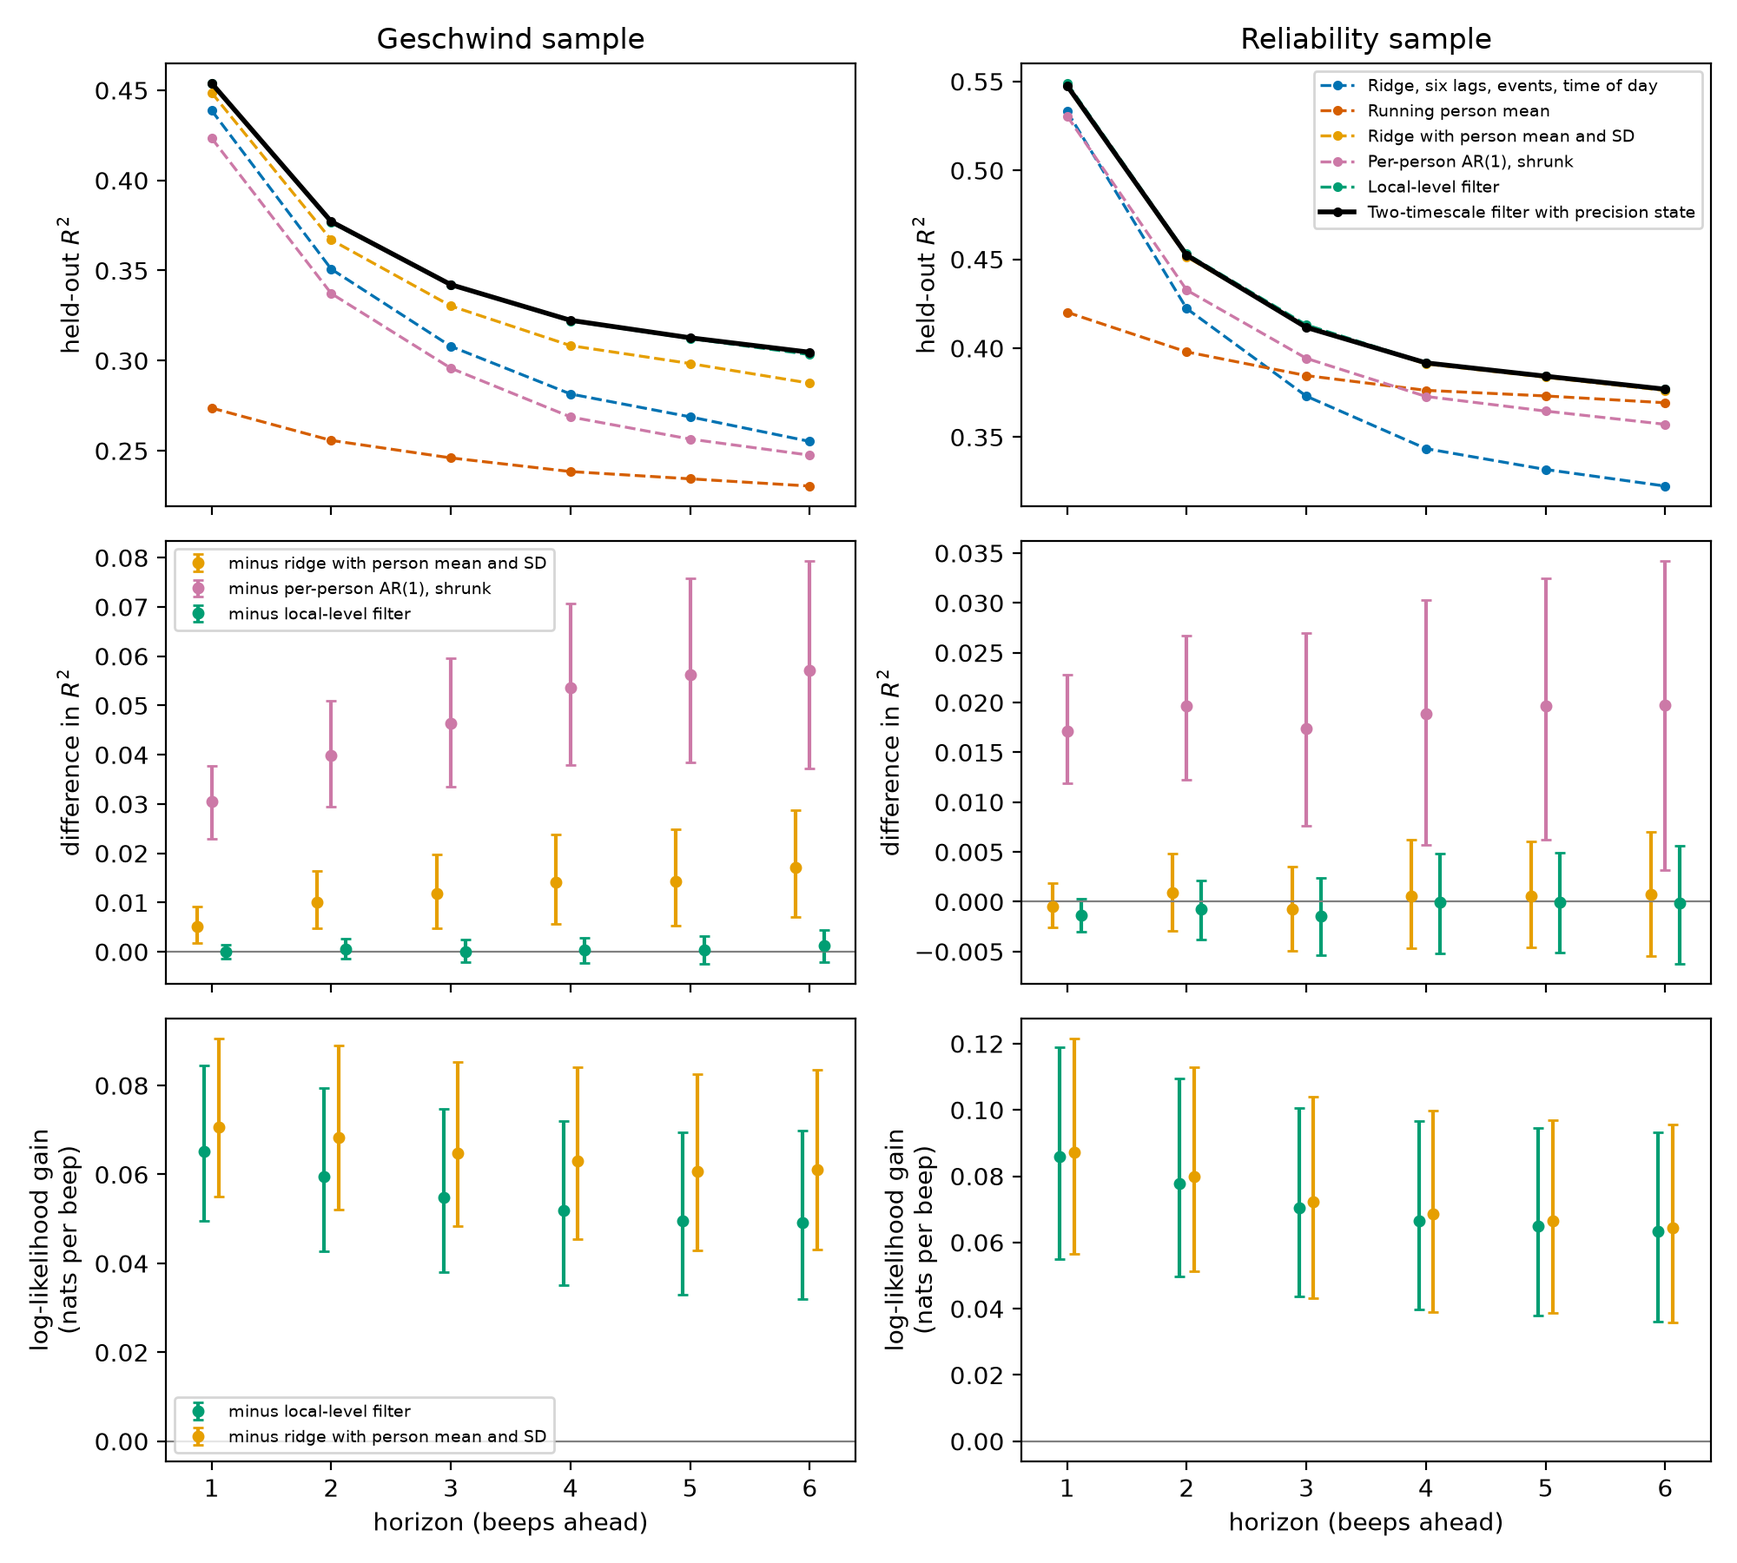
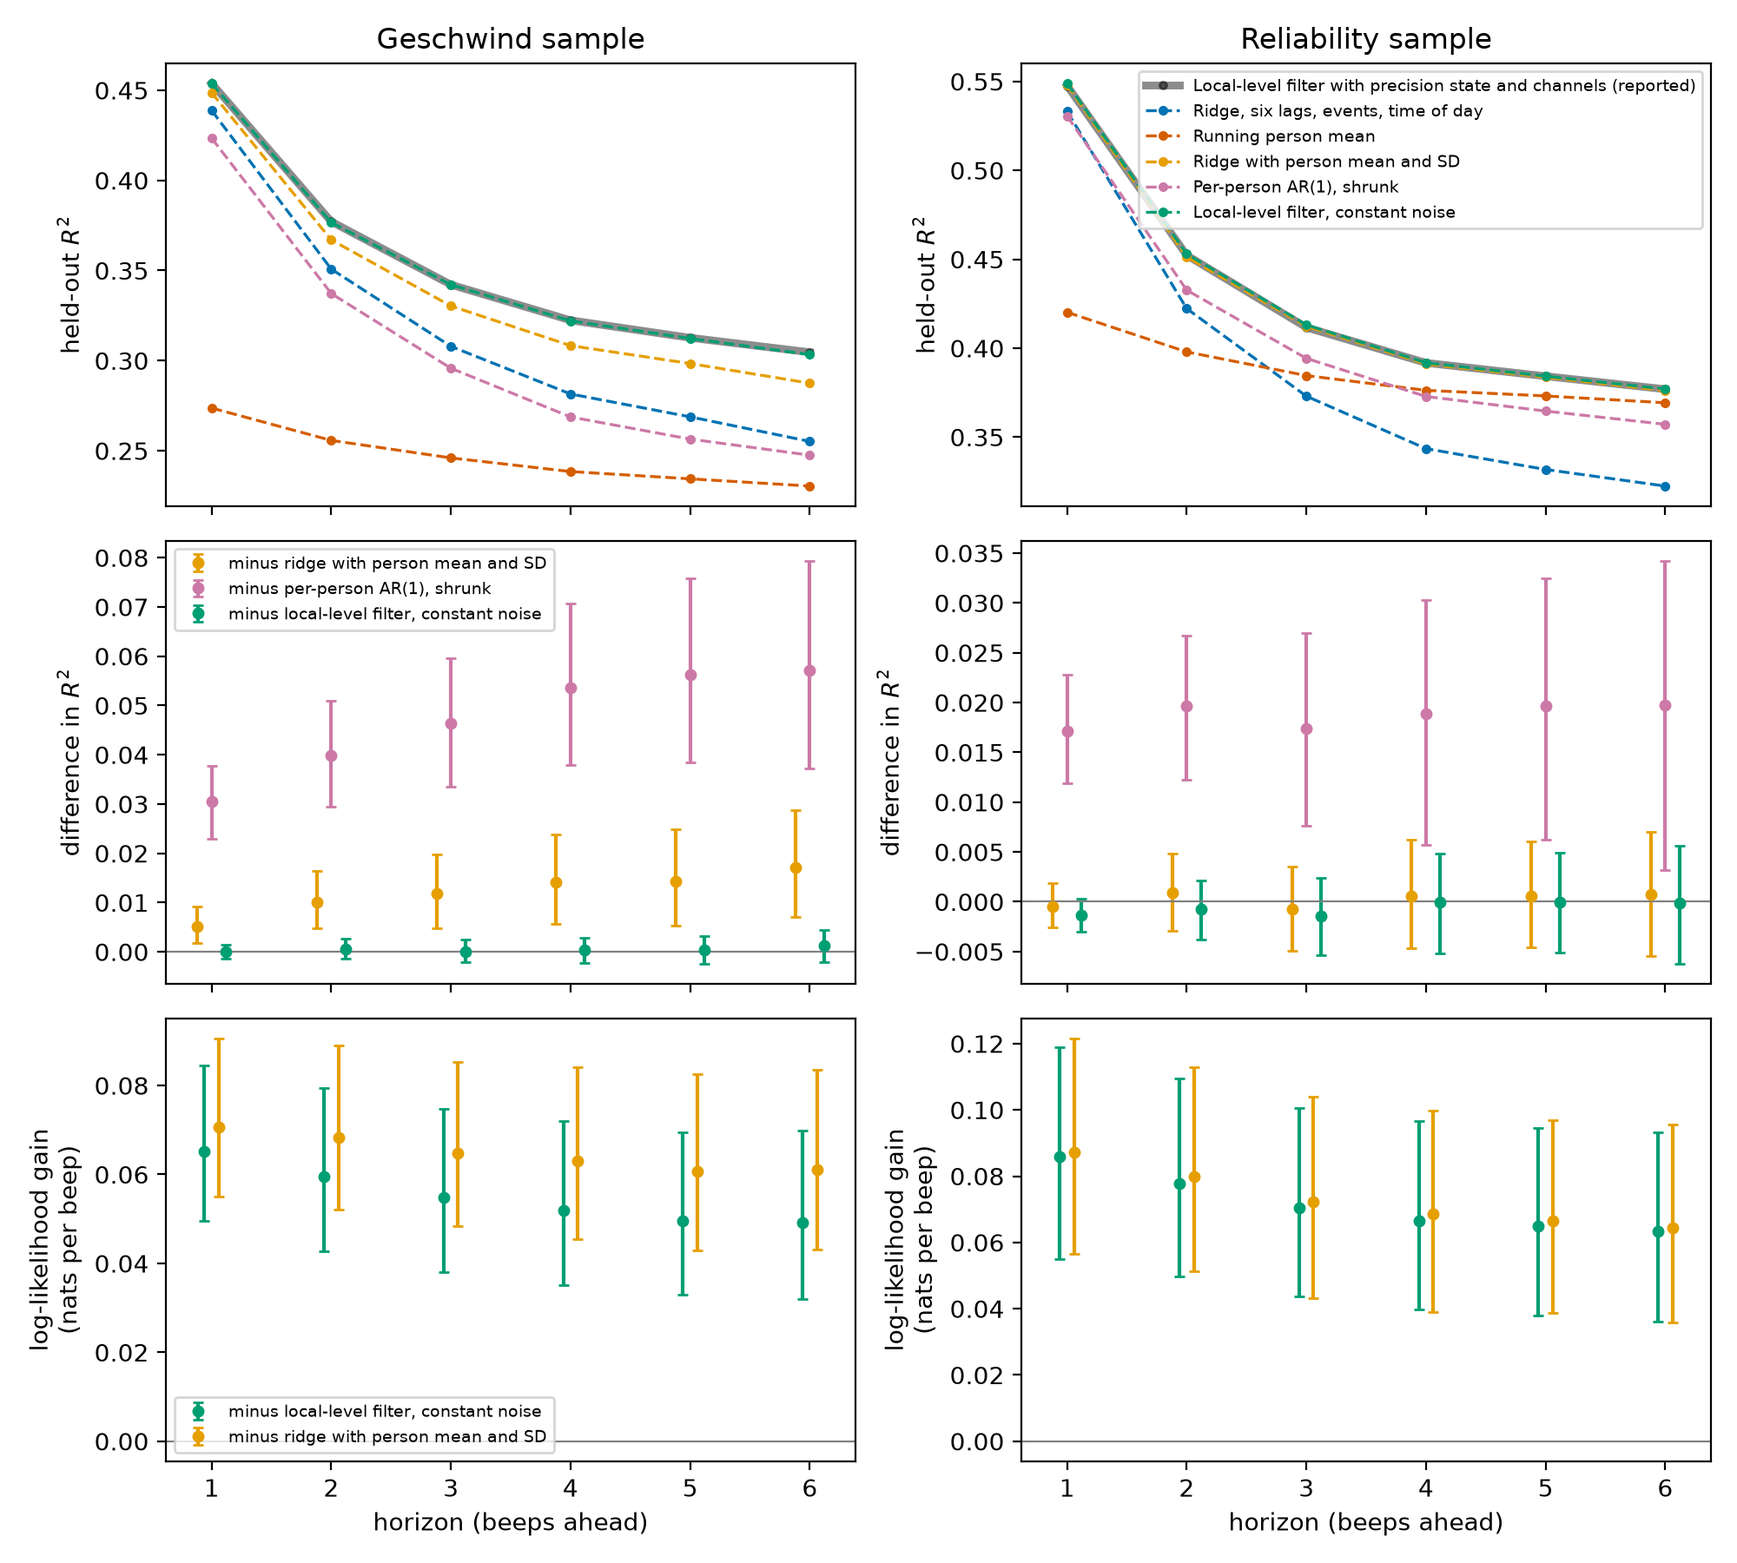
Restructured paper: apply the coherence, accuracy, citation and clarity passes; regenerate six figures from scripts; mark Gainey trait results for an author decision

diff --git a/make_architecture_figure.py b/make_architecture_figure.py
@@ -1,9 +1,10 @@
-"""Layered-architecture schematic for the unified paper.
+"""Architecture schematic for the restructured paper (Figure 1).
 
-Shows the whole model as a stack of layers and marks which single layer each prior
-model corresponds to (Alejandro's request: 'see the whole architecture with layers,
-where the prior models plug in'). This is the readable companion to the dense SPM
-factor graph (Figure 1).
+Shows the model as layers: a task model supplies inputs, three channels read affect off it, the
+temporal frame weights all three channels, their weighted sum drives a fast valence state that relaxes
+toward a slow mood state, and a precision state widens or narrows the forecast after recent surprise.
+The right column marks which channel each earlier account covers.
+Run: python make_architecture_figure.py  ->  figures/fig_architecture.png
 """
 import matplotlib
 matplotlib.use("Agg")
@@ -14,97 +15,85 @@ from pathlib import Path
 FIG = Path("figures"); FIG.mkdir(exist_ok=True)
 plt.rcParams.update({"font.family": "DejaVu Sans", "savefig.dpi": 200})
 
-# Okabe-Ito
-BLUE, ORANGE, GREEN, GRAY, VERM, SKY, YEL = (
-    "#0072B2", "#E69F00", "#009E73", "#9AA0A6", "#D55E00", "#56B4E9", "#F0E442")
+BLUE, ORANGE, GREEN, VERM, PURP, GOLD = "#0072B2", "#E69F00", "#009E73", "#D55E00", "#8e44ad", "#b8860b"
 
-fig, ax = plt.subplots(figsize=(12.5, 7.6))
+fig, ax = plt.subplots(figsize=(12.5, 7.8))
 ax.set_xlim(0, 100); ax.set_ylim(0, 100); ax.axis("off")
 
 
-def box(x, y, w, h, text, fc, ec="k", fs=10.5, bold=False, tc="k", lw=1.4):
-    ax.add_patch(FancyBboxPatch((x, y), w, h,
-                 boxstyle="round,pad=0.6,rounding_size=2.2",
-                 fc=fc, ec=ec, lw=lw, zorder=3))
-    ax.text(x + w / 2, y + h / 2, text, ha="center", va="center",
-            fontsize=fs, fontweight="bold" if bold else "normal",
-            color=tc, zorder=4, wrap=True)
+def box(x, y, w, h, text, fc, ec="k", fs=10, bold=False, lw=1.4):
+    ax.add_patch(FancyBboxPatch((x, y), w, h, boxstyle="round,pad=0.6,rounding_size=2.2",
+                                fc=fc, ec=ec, lw=lw, zorder=3))
+    ax.text(x + w / 2, y + h / 2, text, ha="center", va="center", fontsize=fs,
+            fontweight="bold" if bold else "normal", zorder=4)
 
 
-def arrow(x1, y1, x2, y2, style="-|>", ls="-", color="#333", lw=1.8, rad=0.0):
-    ax.add_patch(FancyArrowPatch((x1, y1), (x2, y2), arrowstyle=style,
-                 mutation_scale=16, lw=lw, color=color, ls=ls,
-                 connectionstyle=f"arc3,rad={rad}", zorder=2))
+def arrow(x1, y1, x2, y2, ls="-", color="#333", lw=1.8, rad=0.0):
+    ax.add_patch(FancyArrowPatch((x1, y1), (x2, y2), arrowstyle="-|>", mutation_scale=16, lw=lw,
+                                 color=color, ls=ls, connectionstyle=f"arc3,rad={rad}", zorder=2))
 
 
-LX, LW = 4, 60           # left column for the stack
-# ---- Layer 0: task-specific generative model ----
-box(LX, 6, LW, 11,
-    "TASK-SPECIFIC GENERATIVE MODEL (POMDP)\n"
-    "states $s$, observations $o$, policies $\\pi$, expected free energy $G$",
-    "#EFEFEF", fs=10.5, bold=False)
-ax.text(LX + LW / 2, 3.0, "for example the gamble model or the experience-sampling filter (Section 2)", ha="center", va="center", fontsize=8.2, color="#666",
-        style="italic")
+def note(x, y, text, color, ha="left"):
+    ax.text(x, y, text, fontsize=7.6, color=color, ha=ha, va="center", style="italic")
 
-# ---- temporal-frame modulator (left) ----
-box(LX, 30, 17, 12,
-    "TEMPORAL\nFRAME $f$\npast/present/\nfuture\n(precision over\nhorizons)",
-    "#D9F0EA", ec=GREEN, fs=8.6)
 
-# ---- Layer 1: three channels ----
-cy, ch = 30, 12
+# task model
+box(4, 5, 60, 10, "TASK MODEL\nthe gamble model, or the experience-sampling filter", "#EFEFEF", fs=10)
+note(34, 1.6, "supplies outcomes, expectations and forecast errors to the channels", "#666", ha="center")
+
+# three channels
+cy, ch = 27, 12
 box(24, cy, 12, ch, "BACKWARD $v_B$\nchange in\nmodel evidence", "#DCEBF5", ec=BLUE, fs=9)
-box(37.5, cy, 12, ch, "PRESENT $v_P$\nreward\nprediction error", "#FBE6CC", ec=ORANGE, fs=9)
-box(51, cy, 13, ch, "FORWARD $v_F$\nrevision\nof plans", "#F6D9CC", ec=VERM, fs=9)
-ax.text(4, 46.5, "AFFECTIVE READOUT LAYER\n(three channels)",
-        ha="left", va="center", fontsize=9, fontweight="bold", color="#444")
+box(38, cy, 12, ch, "PRESENT $v_P$\nreward\nprediction error", "#FBE6CC", ec=ORANGE, fs=9)
+box(52, cy, 12, ch, "FORWARD $v_F$\nrevision\nof plans", "#F6D9CC", ec=VERM, fs=9)
+ax.text(24, 43, "THREE CHANNELS", ha="left", va="center", fontsize=9, fontweight="bold", color="#444")
+for xc in (30, 44, 58):
+    arrow(xc, 15, xc, cy)
 
-# ---- Layer 2: composite ----
-box(20, 52, 44, 8,
-    "VALENCE DRIVE  $\\sum_c w_c\\,\\beta_c\\,v_c$,  $c \\in \\{B, P, F\\}$",
-    "#E7E7E7", fs=10)
+# temporal frame
+box(4, cy, 15, ch, "TEMPORAL\nFRAME $f$\npast, present\nor future", "#D9F0EA", ec=GREEN, fs=8.8)
 
-# ---- Layer 3: readout state + mood ----
-box(6, 68, 26, 9, "FAST VALENCE STATE $x_t$\nreported valence $y_t$\nprecision state $z_t$",
-    "#EFEFEF", fs=9)
-box(40, 68, 24, 9, "SLOW MOOD STATE $m_t$\nsets positive-belief precision", "#EDE3F3",
-    ec="#8e44ad", fs=9)
+# valence drive
+box(24, 49, 40, 7, "VALENCE DRIVE  $\\sum_c w_c\\,\\beta_c\\,v_c$", "#E7E7E7", fs=10)
+for xc in (30, 44, 58):
+    arrow(xc, cy + ch, xc, 49)
+arrow(12, cy + ch, 24, 52.5, color=GREEN, ls=(0, (4, 2)), rad=-0.2)
+note(4.5, 47.5, "frame weights $w_c$\nfor all three channels", GREEN)
 
-# ---- arrows (upward flow) ----
-for xc in (30, 43.5, 57.5):
-    arrow(xc, 17, xc, 30)                       # task model -> channels
-    arrow(xc, 42, 42 if xc != 43.5 else 43.5, 52, rad=0.0)  # channels -> composite
-arrow(42, 60, 19, 68, rad=-0.05)                # composite -> represented valence
-arrow(44, 60, 52, 68, rad=0.05)                 # composite -> mood
-arrow(21, 36, 24, 36, color=GREEN, ls=(0, (4, 2)))   # frame -> channels (modulate)
-# mood feedback down to task model (slow)
-arrow(52, 68, 66, 40, style="-|>", ls=(0, (5, 3)), color="#8e44ad", lw=1.3, rad=0.35)
-ax.text(70.5, 54, "slow mood\nfeedback", fontsize=7.6, color="#8e44ad",
-        ha="left", va="center", style="italic")
+# fast and slow states
+box(6, 66, 26, 9, "FAST VALENCE STATE $x_t$\nread out as reported valence $y_t$", "#EFEFEF", fs=9)
+box(40, 66, 24, 9, "SLOW MOOD STATE $m_t$\nthe level valence relaxes to", "#EDE3F3", ec=PURP, fs=9)
+arrow(40, 56, 22, 66, rad=-0.05)
+arrow(40, 70.5, 32.6, 70.5, color=PURP, lw=1.4)
+note(36.3, 73.2, "pull", PURP, ha="center")
+arrow(32.6, 68, 40, 68, color="#555", lw=1.0)
+note(36.3, 64.6, "update", "#555", ha="center")
+arrow(64.5, 66, 62, 39.5, ls=(0, (5, 3)), color=PURP, lw=1.3, rad=-0.35)
+note(67.5, 53, "optimism term\nof the forward\nchannel", PURP)
 
-# ================= right column: prior models as slices =================
+# precision state
+box(6, 84, 26, 8, "PRECISION STATE $z_t$\nrecent surprise widens or\nnarrows the forecast", "#FFF4C2", ec=GOLD, fs=8.6)
+arrow(19, 75.5, 19, 84, color=GOLD, lw=1.4)
+note(20.3, 79.7, "squared forecast error", GOLD)
+
+# right column: earlier accounts
 RX = 76
-ax.text(RX + 11, 92, "Earlier accounts", ha="center",
-        fontsize=11, fontweight="bold")
-ax.text(RX + 11, 88.4, "(each covers one channel)", ha="center",
-        fontsize=8.2, color="#666", style="italic")
-
+ax.text(RX + 11, 93, "Earlier accounts", ha="center", fontsize=11, fontweight="bold")
+ax.text(RX + 11, 89.4, "(each covers one channel)", ha="center", fontsize=8.2, color="#666", style="italic")
 rows = [
-    ("Joffily & Coricelli 2013", "backward channel only\n(perception-only VFE)", BLUE),
-    ("Pattisapu et al. 2025", "present channel only\n(RPE, POMDP)", ORANGE),
-    ("Hesp et al. 2021", "forward channel + mood layer\n(no reward / no frame)", VERM),
+    ("Joffily & Coricelli 2013", "backward channel\n(rate of change of free energy)", BLUE),
+    ("Pattisapu et al. 2024", "present channel\n(reward prediction error)", ORANGE),
+    ("Hesp et al. 2021", "forward channel\n(affective charge of plans)", VERM),
     ("This model", "three channels, temporal frame,\ntwo timescales, precision state", "#111"),
 ]
-y0 = 80
 for i, (name, desc, col) in enumerate(rows):
-    y = y0 - i * 15
+    y = 81 - i * 15
     hero = name == "This model"
-    box(RX, y - 9.5, 23, 10.5, f"{name}\n" + desc,
-        "#FFF7E6" if hero else "white", ec=col,
+    box(RX, y - 9.5, 23, 10.5, f"{name}\n" + desc, "#FFF7E6" if hero else "white", ec=col,
         lw=2.6 if hero else 1.6, fs=8.4, bold=hero)
     ax.add_patch(plt.Rectangle((RX - 2.4, y - 9.5), 1.6, 10.5, color=col, zorder=4))
 
-fig.tight_layout(rect=(0, 0, 1, 0.96))
+fig.tight_layout()
 fig.savefig(FIG / "fig_architecture.png", bbox_inches="tight")
 plt.close(fig)
 print("saved figures/fig_architecture.png")

diff --git a/analysis/channels_content/content_fig.py b/analysis/channels_content/content_fig.py
@@ -1,0 +1,49 @@
+"""Thought-content channel figure for the restructured paper (Figure 6).
+
+Left: weight of thought pleasantness on current valence for past and future thought relative to present
+thought, from the within-person estimator with participant-bootstrap 95% intervals (1,000 resamples), next
+to the gamble-task ratios. Present is the reference and has no interval. Right: held-out log-likelihood of
+three separate weights minus one pleasantness term, in the regression and in the state-space model.
+Run from the repo root: python analysis/channels_content/content_fig.py -> figures/channels_content_weights.png
+"""
+import json
+from pathlib import Path
+
+import matplotlib
+matplotlib.use("Agg")
+import matplotlib.pyplot as plt
+import numpy as np
+
+HERE = Path(__file__).resolve().parent
+ROOT = HERE.parents[1]
+S = json.loads((HERE / "out/static.json").read_text())["split"]
+H = json.loads((HERE / "out/heldout_static.json").read_text())["three_minus_one"]
+D = json.loads((HERE / "out/dynamic.json").read_text())["three_minus_one"]
+GAMBLE = dict(B=0.017 / 0.097, F=0.049 / 0.097)
+
+fig, ax = plt.subplots(1, 2, figsize=(9.5, 3.7))
+names = ["backward\n(past thought)", "present\n(reference)", "forward\n(future thought)"]
+rB, rF = S["ratio_B_P"], S["ratio_F_P"]
+vals = [rB[0], 1.0, rF[0]]
+cols = ["#0072B2", "#E69F00", "#D55E00"]
+ax[0].bar(range(3), vals, color=cols, width=0.55, label="daily life")
+ax[0].errorbar([0, 2], [rB[0], rF[0]], yerr=[[rB[0] - rB[1], rF[0] - rF[1]], [rB[2] - rB[0], rF[2] - rF[0]]],
+               fmt="none", ecolor="k", capsize=3)
+ax[0].scatter([0, 1, 2], [GAMBLE["B"], 1.0, GAMBLE["F"]], marker="D", color="k", zorder=3, label="gamble task")
+ax[0].axhline(1.0, color="grey", lw=0.6, ls=":")
+ax[0].set_xticks(range(3)); ax[0].set_xticklabels(names, fontsize=8)
+ax[0].set_ylabel("weight relative to present")
+ax[0].legend(fontsize=8, frameon=False, loc="upper right")
+ax[0].set_title("Channel weights", fontsize=10)
+labs = ["regression", "state-space model"]
+v = [H, D]
+ax[1].errorbar(range(2), [x[0] for x in v], yerr=[[x[0] - x[1] for x in v], [x[2] - x[0] for x in v]],
+               fmt="o", color="k", capsize=4)
+ax[1].axhline(0, color="grey", lw=0.8)
+ax[1].set_xticks(range(2)); ax[1].set_xticklabels(labs, fontsize=8); ax[1].set_xlim(-0.5, 1.5)
+ax[1].set_ylabel("held-out log-likelihood gain\n(nats per beep)")
+ax[1].set_title("Three weights minus one, held-out participants", fontsize=10)
+plt.tight_layout()
+out = ROOT / "figures" / "channels_content_weights.png"
+plt.savefig(out, dpi=170)
+print("written", out, "ratios", rB, rF)

diff --git a/analysis/joint_gamble/weights_fig.py b/analysis/joint_gamble/weights_fig.py
@@ -1,0 +1,48 @@
+"""Channel-weight figure for the restructured paper (gamble task).
+
+Left: group weights of the backward, present and forward channels (mean over the five training folds,
+error bars = SD across folds), with the equal-weight fit dashed. Right: distribution of the shrunk
+per-person weights (all held-out participants). Units: happiness on its 0 to 100 scale per task point.
+Run from the repo root: python analysis/joint_gamble/weights_fig.py -> figures/joint_gamble_weights.png
+Inputs: out/summary.json, out/person_weights_fold*.npy (person weights ordered forward, present, backward).
+"""
+import json
+from pathlib import Path
+
+import matplotlib
+matplotlib.use("Agg")
+import matplotlib.pyplot as plt
+import numpy as np
+
+HERE = Path(__file__).resolve().parent
+ROOT = HERE.parents[1]
+S = json.loads((HERE / "out/summary.json").read_text())
+W = np.concatenate([np.load(HERE / f"out/person_weights_fold{f}.npy") for f in range(5)])
+order = [2, 1, 0]                      # backward, present, forward
+names = ["backward", "present", "forward"]
+cols = ["#0072B2", "#E69F00", "#D55E00"]
+g = S["params"]["H_RM"]["w"]
+gm = [g["mean"][i] for i in order]
+gs = [g["sd"][i] for i in order]
+weq = S["params"]["H_RM_eq"]["w_eq"]["mean"][0]
+
+fig, axs = plt.subplots(1, 2, figsize=(8.4, 3.4))
+axs[0].bar(range(3), gm, yerr=gs, color=cols, capsize=4)
+axs[0].axhline(weq, ls="--", color="k", lw=0.8, label="all three weights forced equal")
+for i, v in enumerate(gm):
+    axs[0].text(i, v + 0.003, f"{v:.3f}", ha="center", fontsize=8)
+axs[0].set_xticks(range(3)); axs[0].set_xticklabels(names)
+axs[0].set_ylabel("happiness (0 to 100) per task point")
+axs[0].legend(fontsize=7, frameon=False, loc="upper left"); axs[0].set_ylim(0, 0.115)
+axs[0].set_title("Group weights", fontsize=9.5)
+parts = axs[1].violinplot([W[:, i] for i in order], showmedians=True, showextrema=False)
+for b, c in zip(parts["bodies"], cols):
+    b.set_facecolor(c); b.set_alpha(0.55)
+axs[1].axhline(0, color="grey", lw=0.8)
+axs[1].set_xticks([1, 2, 3]); axs[1].set_xticklabels(names)
+axs[1].set_ylabel("happiness (0 to 100) per task point")
+axs[1].set_title(f"Shrunk per-person weights (N = {len(W):,})", fontsize=9.5)
+fig.tight_layout()
+out = ROOT / "figures" / "joint_gamble_weights.png"
+fig.savefig(out, dpi=180)
+print("written", out)

diff --git a/analysis/orientation/orientation_paper_fig.py b/analysis/orientation/orientation_paper_fig.py
@@ -37,10 +37,13 @@ ax[0].legend(fontsize=8, loc="lower right")
 
 # b. content of thought, Study 1
 sub = b1["subitem_valence"]
-order = [("regret", "regret"), ("replaying", "replaying"), ("worries", "worry"), ("fear", "fear"), ("planning", "planning")]
+order = [("regret", "regret"), ("replaying", "replay" + chr(10) + "-ing"), ("worries", "worry"), ("fear", "fear"), ("planning", "planning")]
 vals = [sub[k]["mean_valence"] for k, _ in order]
-cols = ["C3", "C3", "C0", "C0", "C2"]
-ax[1].bar(range(len(order)), vals, color=cols)
+cols = ["C3", "C3", "C0", "C0", "C0"]
+bars = ax[1].bar(range(len(order)), vals, color=cols)
+bars[4].set_hatch("//"); bars[4].set_edgecolor("white")
+from matplotlib.patches import Patch
+ax[1].legend(handles=[Patch(color="C3", label="past content"), Patch(color="C0", label="future content")], fontsize=7, loc="upper left", bbox_to_anchor=(0.0, 0.93), frameon=False)
 for i, (k, _) in enumerate(order):
     ax[1].text(i, vals[i] + 0.03, f"n={sub[k]['n']}", ha="center", fontsize=7)
 pres = b1["valence_mean_by_orientation"]["present"]["mean"]
@@ -62,7 +65,7 @@ ax[2].axhline(0, color="grey", lw=0.6)
 ax[2].set_xticks([0, 1, 2]); ax[2].set_xticklabels(["signal before", "at signal", "signal after"])
 ax[2].set_ylabel("valence minus present mean (fraction of scale)")
 ax[2].set_title("c  Valence around each orientation", loc="left", fontsize=10)
-ax[2].legend(fontsize=7, ncol=2, loc="upper center", bbox_to_anchor=(0.5, -0.16))
+ax[2].legend(fontsize=7, ncol=2, loc="upper center", bbox_to_anchor=(0.5, -0.13), frameon=False)
 
 plt.tight_layout()
 out = ROOT / "figures" / "orientation_summary_paper.png"

diff --git a/analysis/forecast_r5/plot_r6.py b/analysis/forecast_r5/plot_r6.py
@@ -14,9 +14,10 @@ import matplotlib.pyplot as plt  # noqa: E402
 from common import HORIZONS, OUT, ROOT, SAMPLES  # noqa: E402
 
 MODEL = "kfx_all_h6"
-LABEL = {"ridge_tt": "Ridge, six lags, events, time of day", "pmean_all": "Running person mean",
+LABEL = {MODEL: "Local-level filter with precision state and channels (reported)",
+         "ridge_tt": "Ridge, six lags, events, time of day", "pmean_all": "Running person mean",
          "ridge_pm_all": "Ridge with person mean and SD", "ebar1": "Per-person AR(1), shrunk",
-         "kf_all_h1": "Local-level filter", MODEL: "Two-timescale filter with precision state"}
+         "kf_all_h1": "Local-level filter, constant noise"}
 SAMPLE_LABEL = {"Geschwind": "Geschwind sample", "osf_83cfk": "Reliability sample"}
 COL = {"ridge_tt": "#0072B2", "pmean_all": "#D55E00", "ridge_pm_all": "#E69F00", "ebar1": "#CC79A7",
        "kf_all_h1": "#009E73", MODEL: "#000000"}
@@ -30,7 +31,7 @@ def main():
         for n in LABEL:
             ys = [r2[n][str(h)] if str(h) in r2[n] else r2[n][h] for h in HORIZONS]
             ax[0, j].plot(HORIZONS, ys, "-" if n == MODEL else "--", marker="o", ms=3, color=COL[n],
-                          lw=2 if n == MODEL else 1.2, label=LABEL[n])
+                          lw=3.2 if n == MODEL else 1.2, alpha=0.45 if n == MODEL else 1.0, label=LABEL[n])
         ax[0, j].set_title(SAMPLE_LABEL[s])
         ax[0, j].set_ylabel("held-out $R^2$")
         for k, b in enumerate(("ridge_pm_all", "ebar1", "kf_all_h1")):

diff --git a/counterfactual_paper_fig.py b/counterfactual_paper_fig.py
@@ -26,7 +26,7 @@ for ax, o in zip(axes, res):
     ax.set_title(f"{o['name']} (n = {o['n']})", fontsize=9.5, loc="left")
     for s in ("top", "right"):
         ax.spines[s].set_visible(False)
-axes[0].set_ylabel("switching after a loss,\nforegone better minus foregone same")
+axes[0].set_ylabel("P(switch after a loss): foregone better" + chr(10) + "minus foregone equally bad")
 fig.tight_layout()
 fig.savefig(ROOT / "figures" / "fig_counterfactual_signature.png", dpi=200, bbox_inches="tight")
 print("written")
